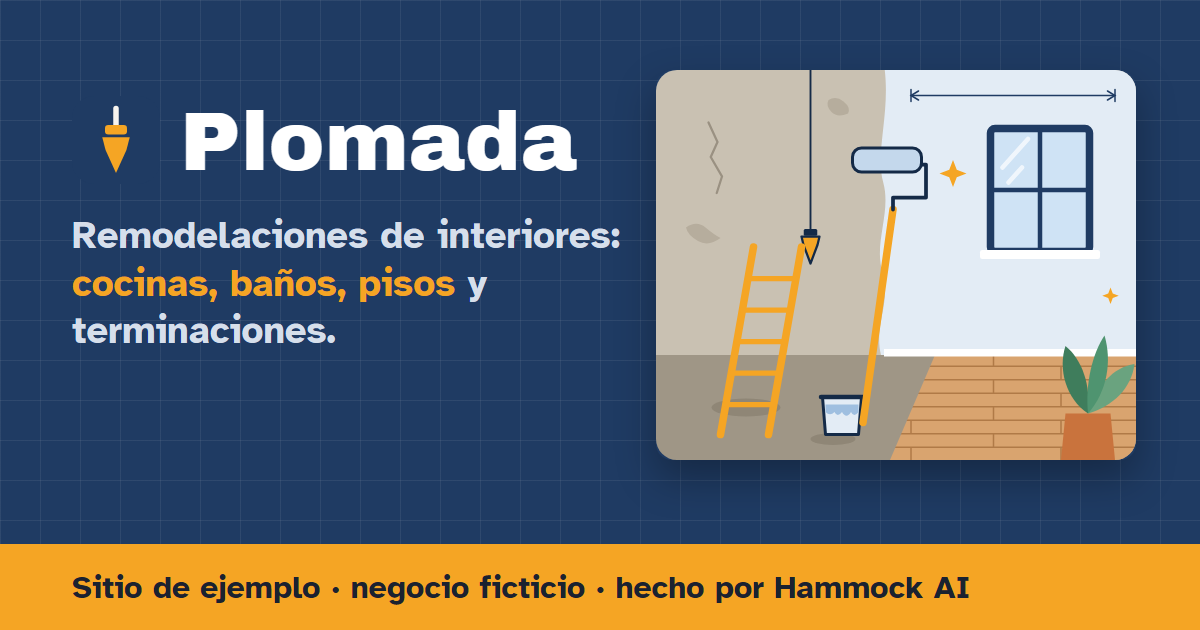
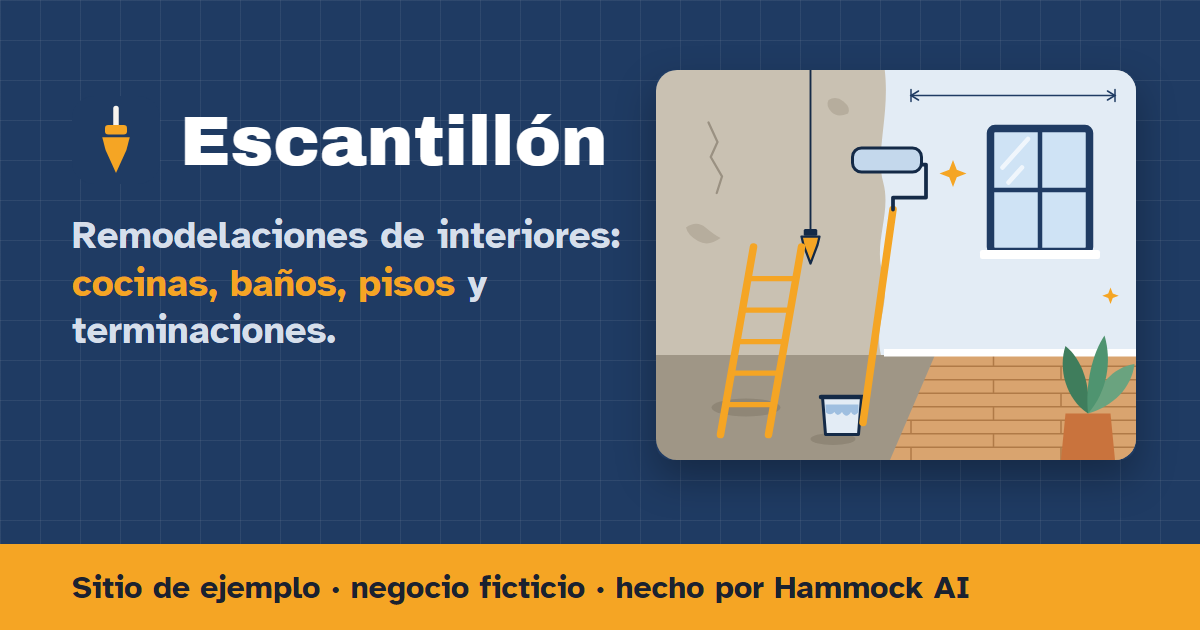
fix: rename the contractor demo to "Escantillón · Remodelaciones" (EN + ES)
The previous name matched a real business in the same trade.
- demo copy: titles, social preview (new og-image), header, about, footer, 404
- portfolio cards on the home page (EN + ES)

Changed region(s): [[0.1542, 0.1508, 0.5242, 0.2714]]

diff --git a/portafolio/contratista/index.html b/portafolio/contratista/index.html
@@ -1,7 +1,7 @@
 <!doctype html>
 <!--
   ============================================================================
-  index.html · DEMO "Plomada" · contratista de remodelaciones · Hammock AI
+  index.html · DEMO "Escantillón" · contratista de remodelaciones · Hammock AI
   ----------------------------------------------------------------------------
   NEGOCIO FICTICIO. Nombre inventado y sin dirección, teléfono ni correo.
   Los botones de WhatsApp, teléfono y correo llevan a https://hammockai.site
@@ -28,7 +28,7 @@
   <meta name="viewport" content="width=device-width, initial-scale=1">
   <!-- CSP: la misma de base/ (explicada allí). -->
   <meta http-equiv="Content-Security-Policy" content="default-src 'none'; script-src 'self'; style-src 'self'; img-src 'self' data:; font-src 'self'; base-uri 'self'; form-action 'self'; object-src 'none'; upgrade-insecure-requests">
-  <title>Plomada · Remodelaciones de interiores · Sitio de ejemplo</title>
+  <title>Escantillón · Remodelaciones de interiores · Sitio de ejemplo</title>
   <meta name="description" content="Sitio de ejemplo hecho por Hammock AI para un negocio ficticio de remodelaciones: cocinas, baños, pisos y terminaciones.">
   <!-- Demo: que los buscadores no la indexen. -->
   <meta name="robots" content="noindex">
@@ -42,12 +42,12 @@
   <meta property="og:type" content="website">
   <meta property="og:url" content="https://hammockai.site/portafolio/contratista/">
   <meta property="og:locale" content="es_LA">
-  <meta property="og:title" content="Sitio de ejemplo · Plomada, remodelaciones (negocio ficticio)">
+  <meta property="og:title" content="Sitio de ejemplo · Escantillón, remodelaciones (negocio ficticio)">
   <meta property="og:description" content="Sitio de ejemplo hecho por Hammock AI para un negocio ficticio de remodelaciones de interiores.">
   <meta property="og:image" content="https://hammockai.site/portafolio/contratista/og-image.png">
   <meta property="og:image:width" content="1200">
   <meta property="og:image:height" content="630">
-  <meta property="og:image:alt" content="Plomada, remodelaciones de interiores: ilustración de una pieza a medio remodelar y la franja Sitio de ejemplo, negocio ficticio, hecho por Hammock AI.">
+  <meta property="og:image:alt" content="Escantillón, remodelaciones de interiores: ilustración de una pieza a medio remodelar y la franja Sitio de ejemplo, negocio ficticio, hecho por Hammock AI.">
   <meta name="twitter:card" content="summary_large_image">
 </head>
 <body>
@@ -63,7 +63,7 @@
     <div class="contenedor cabecera__fila">
       <a class="marca" href="#inicio">
         <img class="marca__logo" src="favicon.svg" alt="" width="36" height="36">
-        <span>Plomada <span class="marca__rubro">Remodelaciones</span></span>
+        <span>Escantillón <span class="marca__rubro">Remodelaciones</span></span>
       </a>
       <button class="boton-menu" type="button" aria-expanded="false" aria-controls="menu-principal">
         <span class="boton-menu__icono" aria-hidden="true"></span>
@@ -257,8 +257,8 @@
       <div class="contenedor dos-columnas">
         <div class="texto-largo">
           <h2 id="titulo-nosotros">Quiénes somos</h2>
-          <p>Plomada es un equipo chico dedicado a remodelaciones de interiores. Hacemos pocas obras a la vez para que cada una tenga a alguien a cargo de principio a fin.</p>
-          <p>La plomada es la herramienta que se usa para comprobar que un muro está derecho. Nos gusta el nombre porque resume cómo queremos trabajar: con orden y revisando cada paso.</p>
+          <p>Escantillón es un equipo chico dedicado a remodelaciones de interiores. Hacemos pocas obras a la vez para que cada una tenga a alguien a cargo de principio a fin.</p>
+          <p>El escantillón es la regla o plantilla que se usa en obra para trazar y fijar las medidas de cada pieza. Nos gusta el nombre porque resume cómo queremos trabajar: con medidas claras y revisando cada paso.</p>
         </div>
         <div class="panel">
           <h3>Lo que puedes esperar</h3>
@@ -366,7 +366,7 @@
   <footer class="pie">
     <div class="contenedor pie__grilla">
       <div>
-        <p class="pie__nombre">Plomada</p>
+        <p class="pie__nombre">Escantillón</p>
         <p>Remodelaciones de interiores.</p>
       </div>
       <nav aria-label="Pie de página">

diff --git a/portafolio/contratista/404.html b/portafolio/contratista/404.html
@@ -2,7 +2,7 @@
 <!--
   COPIA EN hammockai.site (portafolio): las rutas "/" ya se cambiaron a
   /portafolio/contratista/ porque la demo vive en esa subcarpeta.
-  404.html · demo "Plomada" (negocio ficticio). Igual que base/404.html:
+  404.html · demo "Escantillón" (negocio ficticio). Igual que base/404.html:
   rutas que empiezan con "/" porque esta página puede aparecer en cualquier
   dirección. Abierta con doble clic desde la carpeta se ve sin estilos; en
   el sitio publicado se ve bien. Si la demo se publica dentro de una
@@ -13,7 +13,7 @@
   <meta charset="utf-8">
   <meta name="viewport" content="width=device-width, initial-scale=1">
   <meta http-equiv="Content-Security-Policy" content="default-src 'none'; script-src 'self'; style-src 'self'; img-src 'self' data:; font-src 'self'; base-uri 'self'; form-action 'self'; object-src 'none'; upgrade-insecure-requests">
-  <title>Página no encontrada · Plomada · Sitio de ejemplo</title>
+  <title>Página no encontrada · Escantillón · Sitio de ejemplo</title>
   <meta name="robots" content="noindex">
   <meta name="theme-color" content="#1f3b63">
   <link rel="icon" href="/portafolio/contratista/favicon.svg" type="image/svg+xml">
@@ -31,7 +31,7 @@
     <div class="contenedor cabecera__fila">
       <a class="marca" href="/portafolio/contratista/">
         <img class="marca__logo" src="/portafolio/contratista/favicon.svg" alt="" width="36" height="36">
-        <span>Plomada <span class="marca__rubro">Remodelaciones</span></span>
+        <span>Escantillón <span class="marca__rubro">Remodelaciones</span></span>
       </a>
     </div>
   </header>

diff --git a/index.html b/index.html
@@ -88,9 +88,9 @@
         <li class="card demo-card p-6" data-reveal style="--d:0ms">
           <img class="demo-thumb" src="portafolio/contratista/img/hero.svg" alt="" width="640" height="520" loading="lazy">
           <p class="mt-5 text-xs font-bold tracking-[0.2em] text-ember">CONTRACTOR · EXAMPLE</p>
-          <h3 class="mt-3 font-display text-xl">Plomada, home renovations</h3>
+          <h3 class="mt-3 font-display text-xl">Escantillón, home renovations</h3>
           <p class="mt-3 text-sm leading-relaxed text-mist">Services, before-and-after projects, how the work goes step by step, FAQ and contact buttons.</p>
-          <a class="link-arrow" href="portafolio/contratista/" hreflang="es">View example<span class="sr-only">: Plomada, fictional business, site in Spanish</span> <span class="link-arrow-icon" aria-hidden="true">→</span></a>
+          <a class="link-arrow" href="portafolio/contratista/" hreflang="es">View example<span class="sr-only">: Escantillón, fictional business, site in Spanish</span> <span class="link-arrow-icon" aria-hidden="true">→</span></a>
         </li>
         <li class="card demo-card p-6" data-reveal style="--d:70ms">
           <img class="demo-thumb" src="portafolio/gimnasio/img/portada.svg" alt="" width="640" height="560" loading="lazy">

diff --git a/es/index.html b/es/index.html
@@ -88,9 +88,9 @@
         <li class="card demo-card p-6" data-reveal style="--d:0ms">
           <img class="demo-thumb" src="../portafolio/contratista/img/hero.svg" alt="" width="640" height="520" loading="lazy">
           <p class="mt-5 text-xs font-bold tracking-[0.2em] text-ember">CONTRATISTA · EJEMPLO</p>
-          <h3 class="mt-3 font-display text-xl">Plomada, remodelaciones</h3>
+          <h3 class="mt-3 font-display text-xl">Escantillón, remodelaciones</h3>
           <p class="mt-3 text-sm leading-relaxed text-mist">Servicios, antes y después, cómo se trabaja paso a paso, preguntas frecuentes y botones de contacto.</p>
-          <a class="link-arrow" href="../portafolio/contratista/">Ver ejemplo<span class="sr-only">: Plomada, negocio ficticio</span> <span class="link-arrow-icon" aria-hidden="true">→</span></a>
+          <a class="link-arrow" href="../portafolio/contratista/">Ver ejemplo<span class="sr-only">: Escantillón, negocio ficticio</span> <span class="link-arrow-icon" aria-hidden="true">→</span></a>
         </li>
         <li class="card demo-card p-6" data-reveal style="--d:70ms">
           <img class="demo-thumb" src="../portafolio/gimnasio/img/portada.svg" alt="" width="640" height="560" loading="lazy">

diff --git a/portafolio/contratista/style.css b/portafolio/contratista/style.css
@@ -1,5 +1,5 @@
 /* ==========================================================================
-   style.css · Demo "Plomada" (contratista, NEGOCIO FICTICIO) · Hammock AI
+   style.css · Demo "Escantillón" (contratista, NEGOCIO FICTICIO) · Hammock AI
    --------------------------------------------------------------------------
    DE DÓNDE SALE
    Es el mismo style.css de base/ con dos cambios:
@@ -52,7 +52,7 @@
 }
 
 
-/* 1. TOKENS (tema "Plomada") ===============================================
+/* 1. TOKENS (tema "Escantillón") ==========================================
    Azul plano de obra + amarillo de seguridad + fondo color yeso.
    Contraste medido el 2026-10-21 (mínimo AA: 4,5:1 texto; 3:1 foco):
    texto/fondo 14,6 · texto-suave/fondo-alt 6,5 · texto oscuro/botón amarillo

diff --git a/portafolio/contratista/CREDITOS.md b/portafolio/contratista/CREDITOS.md
@@ -1,15 +1,15 @@
-# Créditos y licencias · demo "Plomada" (negocio ficticio)
+# Créditos y licencias · demo "Escantillón" (negocio ficticio)
 
 | Archivo | Qué es | Autor y licencia |
 |---|---|---|
 | `fonts/archivo-black.woff2` | Fuente de los títulos (Archivo Black) | Copyright 2017 The Archivo Black Project Authors. SIL Open Font License 1.1 (permite uso comercial). Texto completo: `fonts/OFL-archivo-black.txt`. |
 | `fonts/atkinson-hyperlegible-regular.woff2`, `fonts/atkinson-hyperlegible-bold.woff2` | Fuente del texto (Atkinson Hyperlegible) | Copyright 2020 Braille Institute of America, Inc. SIL Open Font License 1.1 (permite uso comercial). Texto completo: `fonts/OFL-atkinson-hyperlegible.txt`. |
-| `favicon.svg` | Logo ficticio (una plomada) | Dibujo propio de Hammock AI. |
+| `favicon.svg` | Logo ficticio (un plomo colgando de su hilo) | Dibujo propio de Hammock AI. |
 | `img/hero.svg` | Ilustración de portada | Dibujo propio de Hammock AI. |
 | `img/*-antes.svg`, `img/*-despues.svg` | Ilustraciones de antes y después | Dibujo propio de Hammock AI. **No son fotos de obras reales.** |
-| `og-image.png` | Imagen para redes | Hecha por Hammock AI con las piezas de arriba. |
+| `og-image.png` | Imagen para redes | Hecha por Hammock AI con las piezas de arriba (rehecha el 2026-10-22 con el nombre nuevo). |
 | Íconos dentro de `index.html` | Formas simples en SVG (servicios, contacto, visto bueno) | Dibujo propio de Hammock AI. |
 
-**Negocio ficticio:** "Plomada" es un nombre inventado para esta demo, sin dirección, teléfono ni correo. Los botones de WhatsApp, teléfono y correo llevan a https://hammockai.site y lo dicen en el mismo botón (marca "ejemplo" y "¿Quieres un sitio así? → Hammock AI"), porque un número o correo inventado podría ser de una persona real.
+**Negocio ficticio:** "Escantillón" es un nombre inventado para esta demo, sin dirección, teléfono ni correo. Hasta el 2026-10-22 la demo usaba otro nombre, que coincidía con un negocio real del rubro; el logo (un plomo) viene de ese nombre anterior. Los botones de WhatsApp, teléfono y correo llevan a https://hammockai.site y lo dicen en el mismo botón (marca "ejemplo" y "¿Quieres un sitio así? → Hammock AI"), porque un número o correo inventado podría ser de una persona real.
 
 **La OFL pide:** que la licencia viaje con la fuente (por eso está en `fonts/`) y que la fuente no se venda sola. Usarla en un sitio, incluso comercial, está permitido.
